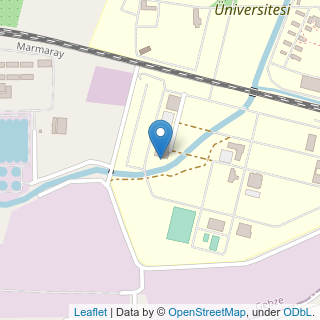
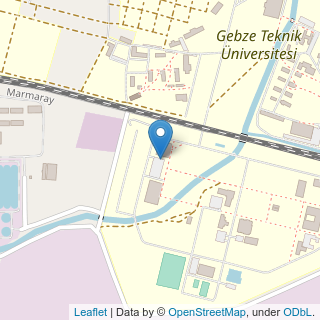
Beta Version + Readme updated

diff --git a/Map/map.html b/Map/map.html
@@ -23,7 +23,7 @@
             <meta name="viewport" content="width=device-width,
                 initial-scale=1.0, maximum-scale=1.0, user-scalable=no" />
             <style>
-                #map_428ebd9064974bfa8487339aea147e32 {
+                #map_193804681704403b9a53362f1613aece {
                     position: relative;
                     width: 100.0%;
                     height: 100.0%;
@@ -35,15 +35,15 @@
 </head>
 <body>    
     
-            <div class="folium-map" id="map_428ebd9064974bfa8487339aea147e32" ></div>
+            <div class="folium-map" id="map_193804681704403b9a53362f1613aece" ></div>
         
 </body>
 <script>    
     
-            var map_428ebd9064974bfa8487339aea147e32 = L.map(
-                "map_428ebd9064974bfa8487339aea147e32",
+            var map_193804681704403b9a53362f1613aece = L.map(
+                "map_193804681704403b9a53362f1613aece",
                 {
-                    center: [40.806198, 29.35556],
+                    center: [40.807712, 29.355991],
                     crs: L.CRS.EPSG3857,
                     zoom: 15,
                     zoomControl: false,
@@ -55,15 +55,15 @@
 
         
     
-            var tile_layer_7068aff372d54b37bb5ad79419d7223c = L.tileLayer(
+            var tile_layer_2bbd04b66bcf411da4b4562848d83d6e = L.tileLayer(
                 "https://{s}.tile.openstreetmap.org/{z}/{x}/{y}.png",
                 {"attribution": "Data by \u0026copy; \u003ca href=\"http://openstreetmap.org\"\u003eOpenStreetMap\u003c/a\u003e, under \u003ca href=\"http://www.openstreetmap.org/copyright\"\u003eODbL\u003c/a\u003e.", "detectRetina": false, "maxNativeZoom": 18, "maxZoom": 18, "minZoom": 0, "noWrap": false, "opacity": 1, "subdomains": "abc", "tms": false}
-            ).addTo(map_428ebd9064974bfa8487339aea147e32);
+            ).addTo(map_193804681704403b9a53362f1613aece);
         
     
-            var marker_bd1f500a05ef466e9311c40acaaa1eb0 = L.marker(
-                [40.806198, 29.35556],
+            var marker_3eabd55f910c40bda0301d0dec4cdaec = L.marker(
+                [40.807712, 29.355991],
                 {}
-            ).addTo(map_428ebd9064974bfa8487339aea147e32);
+            ).addTo(map_193804681704403b9a53362f1613aece);
         
 </script>

diff --git a/main.py b/main.py
@@ -11,6 +11,14 @@ _PORT_ = '/dev/ttyUSB0'
 first12=0
 last6=0
 _END_FLAG_=0
+
+opt = webdriver.ChromeOptions()
+opt.add_argument("--headless")
+opt.add_argument("--offline")
+driver = webdriver.Chrome(options=opt)
+driver.set_window_size(320, 320)  # choose a resolution
+directory = os.path.dirname(os.path.abspath(__file__))
+driver.get("file://"+directory+"/Map/map.html")
 class App:
     def __init__(self):
         self.window = Tk()
@@ -29,15 +37,16 @@ class App:
             for j in range(5):
                 if ((i*5)+j)<18:
                     self.allBatteries[i][j] = Battery(self, (i*5+j), (x*j)+1, (y*i)+1)
-        #self.allBatteries = [[Battery(self, (i*5+j), (x*j)+1, (y*i)+1) for j in range(5)] for i in range(4)]
         self.signals = Signals(self)
         self.location = Location(self)
-        #self.mapThread = thr.Thread(target=self.location.)
+        self.mapThread = thr.Thread(
+            target=self.location.updateLoc, args=[self,self.location])
         self.logo = Logo(self)
         self.steer = Steering(self)
-        self.serial= self.connectUSB();
-        self.readData = thr.Thread(target=self.readAndParseDATA)
-        self.readData.start()
+        #self.serial= self.connectUSB();
+        #self.readData = thr.Thread(target=self.readAndParseDATA)
+        #self.readData.start()
+        self.mapThread.start()
         
     def connectUSB(self):
         ser = serial.Serial(
@@ -65,15 +74,20 @@ class App:
                 paket1(self,datas[1])
             if paket == '2':  # Battery 12 - 18  + Left -Right Signal +Motor +Leakage Signal+Amper+Volt+pil Temp. 
                 paket2(self, datas[1])
-            if paket == '3':
+            if paket == '3':# direksiyon + konum
                 paket3(self, datas[1])
 class Logo:
     def __init__(self, obj):
         self.logoCanvas = Canvas(
-            obj.window, height=100, width=150, background="blue", highlightthickness=0)
+            obj.window, height=100, width=140, background="blue", highlightthickness=0)
         self.photo = PhotoImage(file="Images/logo.png")
         self.logoCanvas.create_image(75, 50, image=self.photo, anchor=CENTER)
-        self.logoCanvas.place(x=375, y=400)
+        self.logoCanvas.place(x=450, y=340)
+        self.numberCanvas = Canvas(
+            obj.window, height=100, width=150, background="white", highlightthickness=0)
+        self.numberPhoto = PhotoImage(file="Images/44.png")
+        self.numberCanvas.create_image(75, 50, image=self.numberPhoto, anchor=CENTER)
+        self.numberCanvas.place(x=250, y=410)
 class Signals:
     def __init__(self, obj):
         # Current,Voltage,Engine,Left,Right,Tempereture
@@ -144,7 +158,7 @@ class Signals:
             self.thermoCanvas.create_image(25, 26, image=self.thermometer[0], anchor=CENTER)
             self.thermoCanvas.place(x=200, rely=1, anchor=S)
             self.thermoTxt = self.thermoCanvas.create_text(
-                25, 65, fill="black", text="0", font=('Helvetica 16 bold'))
+                25, 65, fill="black", text="0", font=('Helvetica 15 bold'))
     class LeakageSignal(object):
         def __init__(self, obj):
             self.leakageImage = [PhotoImage(
@@ -184,6 +198,7 @@ class Battery:
         self.batteryImage = self.batteryCanvas.create_image(
             0, 2, image=self.batteryImages[0], anchor=NW)
         self.batteryCanvas.place(x=_x_, y=_y_)
+        self.batteryNo=name
         self.batteryName = self.batteryCanvas.create_text(
             37.5, 35, fill="black", text=name, font=('Helvetica 14 roman'))
         self.batteryTxt = self.batteryCanvas.create_text(
@@ -203,34 +218,34 @@ class Location:
             40, 15, fill="black", text=str(self.location[0]), font=('Helvetica 14 roman'), anchor=W)
         self._Y_Loc = self.locationCanvas.create_text(
             180, 15, fill="black", text=str(self.location[1]), font=('Helvetica 14 roman'), anchor=W)
-        self.button = Button(obj.window, text='Show On Map !',bd='1', command=lambda: self.updateLoc(obj))
-        self.button.place(x=480, y=325)
+        ''' self.button = Button(obj.window, text='Show On Map !',bd='1', command=lambda: self.updateLoc(obj))
+        self.button.place(x=480, y=325) '''
         self.imageCanvas = Canvas(obj.window, height=300, width=300,background="red", highlightthickness=1)
         self.imageCanvas.place(x=400, y=0)
-    def updateLoc(self, obj):
-        mapLoc = folium.Map(location=self.location,
+        
+    def updateLoc(self,obj,loc):
+        while(getFlag()==0):
+            mapLoc = folium.Map(location=loc.location,
                             tiles="OpenStreetMap", zoom_start=15, zoom_control=False)
-        folium.Marker(location=self.location).add_to(mapLoc)
-        directory = os.path.dirname(os.path.abspath(__file__))
-        mapLoc.save(directory+"/Map/map.html")
-        self.savePNG()
-        self.imag = PhotoImage(file=(directory+'/Map/ss.png'))
-        self.image = self.imageCanvas.create_image(0, 0, image=self.imag, anchor=NW)
-        self.imageCanvas.pack()
-        self.imageCanvas.place(x=400, y=0)
-        obj.window.update()
+            folium.Marker(location=loc.location).add_to(mapLoc)
+            global directory
+            mapLoc.save(directory+"/Map/map.html")
+            self.savePNG()
+            self.imag = PhotoImage(file=(directory+'/Map/ss.png'))
+            self.image = self.imageCanvas.create_image(
+                0, 0, image=self.imag, anchor=NW)
+            self.imageCanvas.pack()
+            self.imageCanvas.place(x=400, y=0)
+            obj.window.update()
+
     def savePNG(self):
-        opt = webdriver.ChromeOptions()
-        opt.add_argument("--headless")
-        opt.add_argument("--offline")
-        driver = webdriver.Chrome(options=opt)
-        driver.set_window_size(320, 320)  # choose a resolution
-        directory = os.path.dirname(os.path.abspath(__file__))
+        global driver,directory
         driver.get("file://"+directory+"/Map/map.html")
-        time.sleep(2)
+        time.sleep(1)
         # You may need to add time.sleep(seconds) here
         driver.save_screenshot(directory+'/Map/ss.png')
         #driver.close()
+
     def changeLoc(self, obj, locs):
         self.location = locs
         self.locationCanvas.delete(self._X_Loc)
@@ -307,6 +322,7 @@ def updateBattery(obj, charge=0):
         obj.batteryCanvas.delete(obj.batteryCharge)
         obj.batteryCanvas.delete(obj.batteryTxt)
         obj.batteryCanvas.delete(obj.batteryImage)
+        obj.batteryCanvas.delete(obj.batteryName)
         x = 122 - int(charge*1.04)
         color = colorPicker(charge)
         obj.batteryCharge = obj.batteryCanvas.create_rectangle(
@@ -320,6 +336,8 @@ def updateBattery(obj, charge=0):
         obj.charge = charge
         obj.batteryTxt = obj.batteryCanvas.create_text(
             37.5, 110, fill="black", text=str(obj.charge), font=('Helvetica 16 bold'))
+        obj.batteryName = obj.batteryCanvas.create_text(
+            37.5, 35, fill="black", text=obj.batteryNo , font=('Helvetica 14 roman'))
 def colorPicker(charge):
     if charge < 20:
         return "#A10000"
@@ -374,22 +392,24 @@ def changeThermoSignal(obj, signal):
         25, 26, image=img, anchor=CENTER)
     obj.thermoCanvas.delete(obj.thermoTxt)
     obj.thermoTxt = obj.thermoCanvas.create_text(
-        25, 65, fill="black", text=str(signal), font=('Helvetica 16 bold'))
+        25, 65, fill="black", text=str(signal), font=('Helvetica 15 bold'))
 def changeLeakageSignal(obj, signal):
     obj.leakageCanvas.delete(obj.img)
     obj.img = obj.leakageCanvas.create_image(25, 25, image=obj.leakageImage[signal], anchor=CENTER)
 def exit_func(obj):
     setFlag(1)
-    obj.readData.join()
+    #obj.readData.join()
+    obj.mapThread.join()
+    global driver
+    driver.close()
     obj.window.destroy()
-    
 def getFlag():
     global _END_FLAG_
     return _END_FLAG_    
 def setFlag(i):
     global _END_FLAG_
-    #_END_FLAG_= mp.Value("i", 1)
     _END_FLAG_=1
+    
 def paket1(obj, datas):
     sum=0
     arr= datas.split("\\")[0].split(",")

diff --git a/README.md b/README.md
@@ -1,3 +1,19 @@
 # Alfa-ETA_User_Interface
-![alt text](https://github.com/baransolmaz/Alfa-ETA_User_Interface/blob/1Haziran/Current/18.png)
- 
+![alt text](https://github.com/baransolmaz/Alfa-ETA_User_Interface/blob/2Haziran/Current/19.png)
+## Download
+```bash 
+  npm install my-project
+  cd my-project
+``` 
+## Requirements
+
+Requirements/Libraries for Interface:
+`Python 3.8.10`
+`Tkinter`
+`Folium`
+`Selenium`
+`PIL`
+`Threading`
+`Serial`
+
+![Logo](https://github.com/baransolmaz/Alfa-ETA_User_Interface/blob/main/Images/logo.png)
